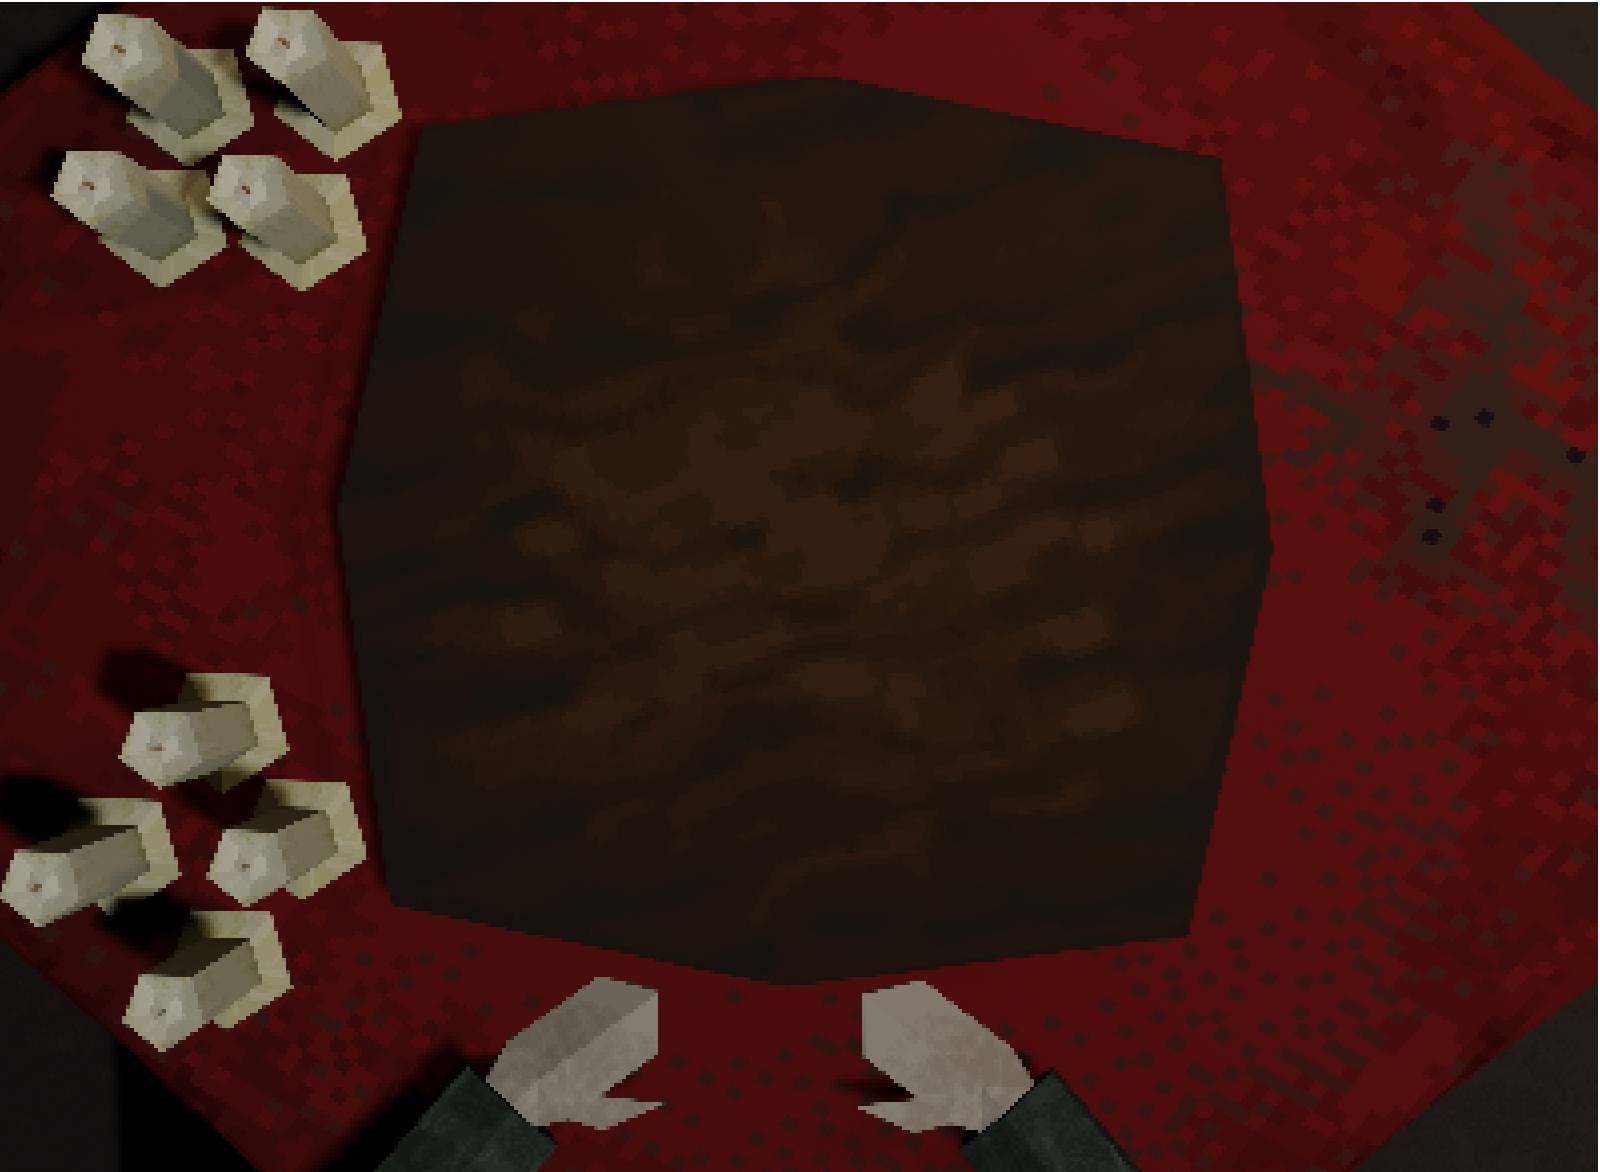
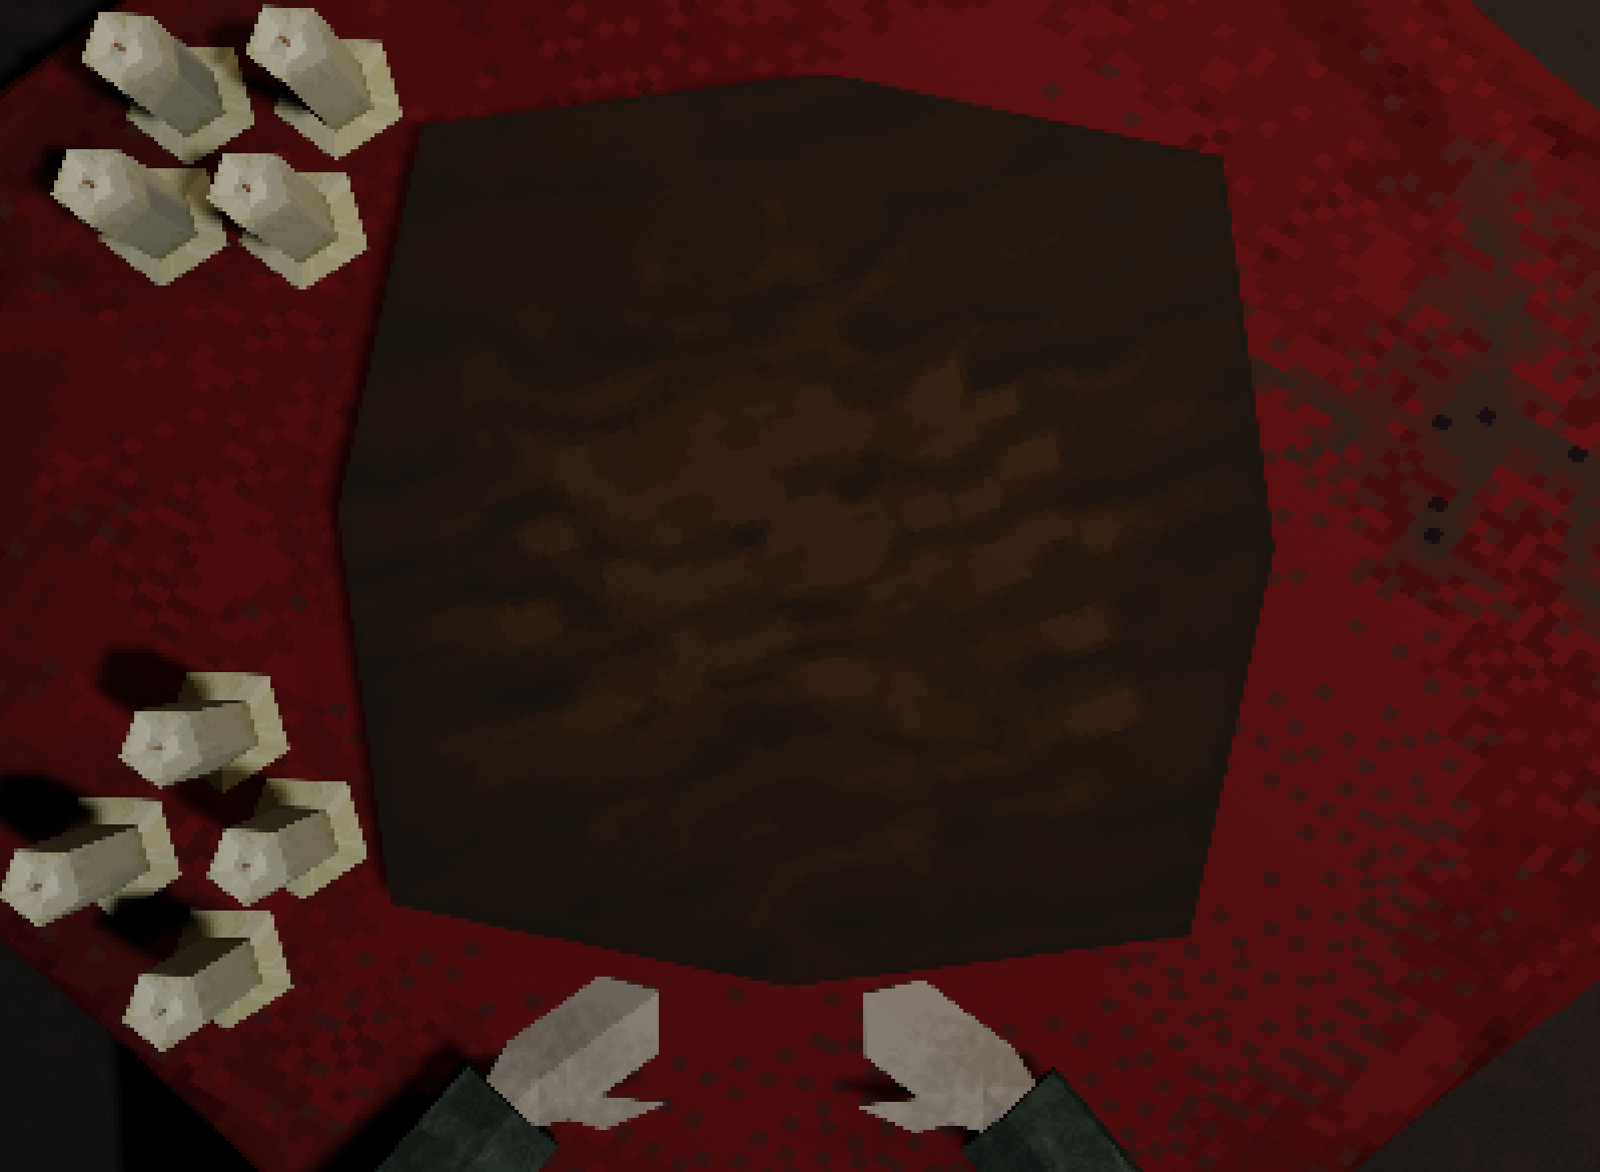
bien

diff --git a/Hollenhaus/Hollenhaus proyect VS/src/game/factories/MatchStateUIFactory_v0.cpp b/Hollenhaus/Hollenhaus proyect VS/src/game/factories/MatchStateUIFactory_v0.cpp
@@ -86,7 +86,7 @@ ecs::entity_t MatchStateUIFactory_v0::createVisual_BackgroundBlackBox(int posX, 
     // Obtenemos la altura y anchura de "black_box" para definir el tama�o del sprite en pixeles
     //int textureW = blackBox->getComponent<SpriteRenderer>()->getTexture()->width();
     //int textureH = blackBox->getComponent<SpriteRenderer>()->getTexture()->height();
-    blackBox->getComponent<Transform>()->setGlobalScale(1.5f, 1.5f);
+    blackBox->getComponent<Transform>()->setGlobalScale(1.f, 1.f);
     //blackBox->getComponent<Transform>()->getGlobalScale().set(xPixelsSize / textureW, yPixelsSize / textureH);
 
     blackBox->setLayer(1);
